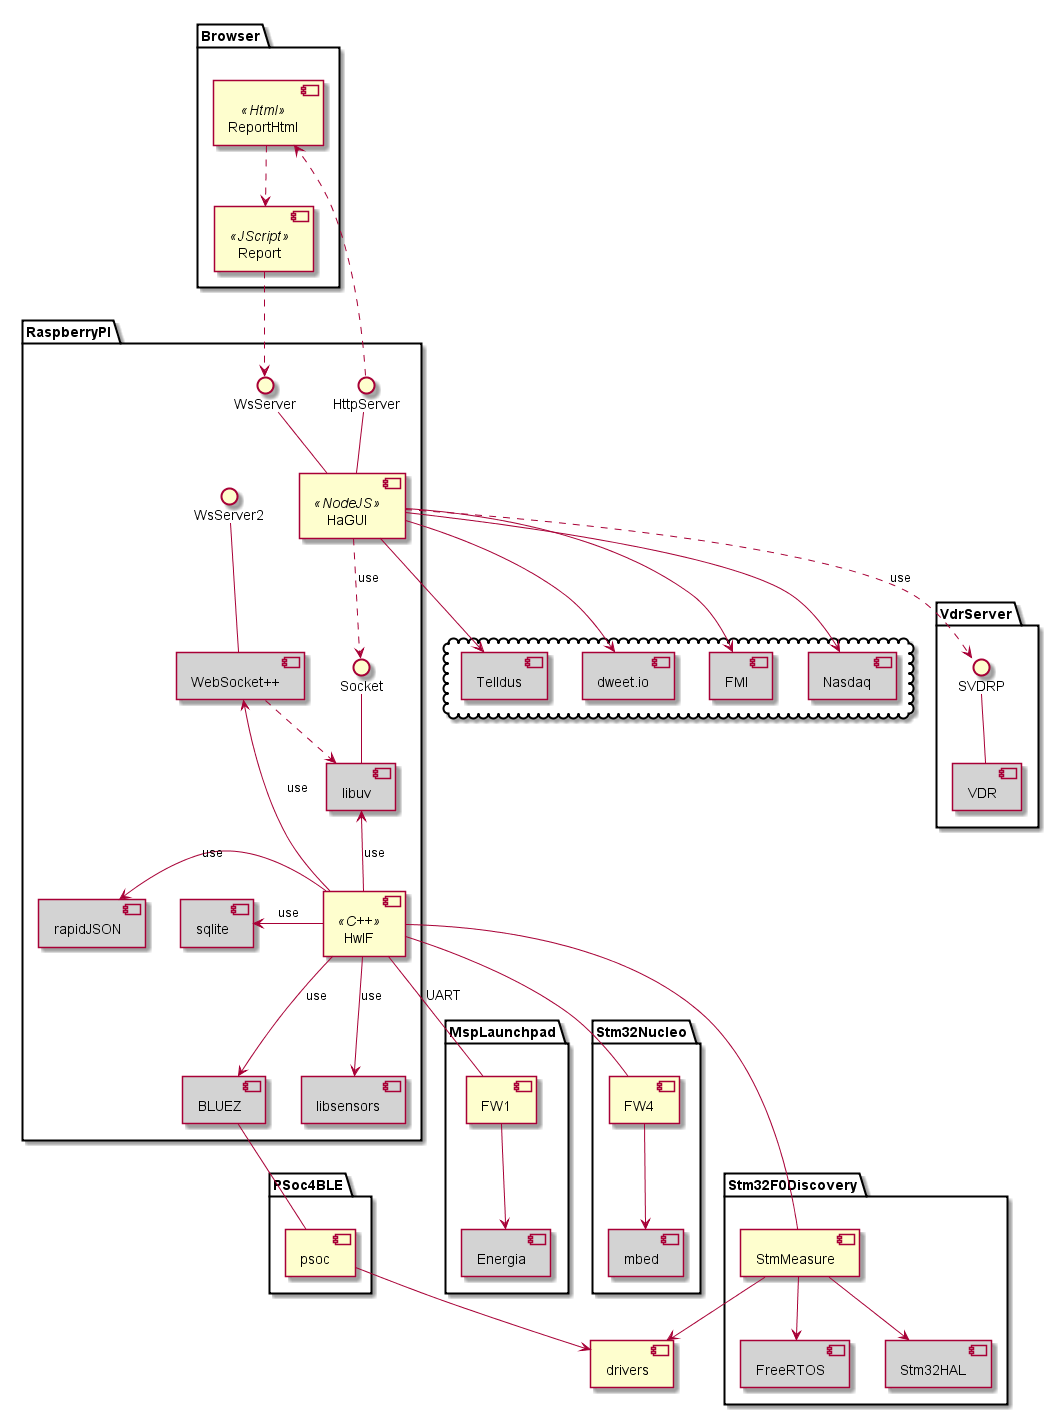
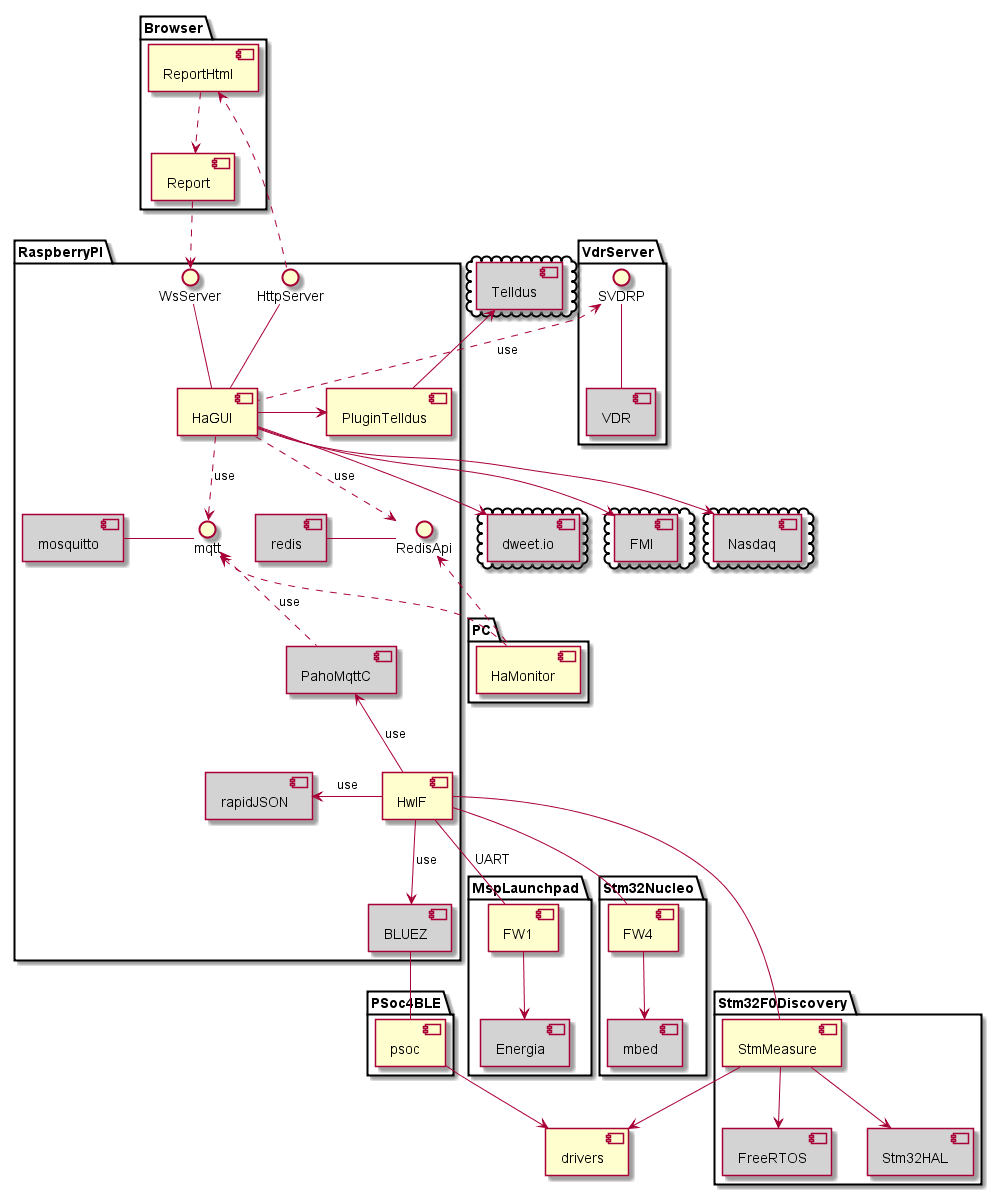
update diagrams for version 0.4 (mqtt and redis added)

Changed region(s): [[0.0, 0.0, 1.0, 1.0]]

diff --git a/applications.html b/applications.html
@@ -4,7 +4,7 @@
 <html xmlns="http://www.w3.org/1999/xhtml" lang="en" xml:lang="en">
 <head>
 <title>Applications</title>
-<!-- 2016-04-25 ma 21:23 -->
+<!-- 2016-10-26 ke 19:07 -->
 <meta  http-equiv="Content-Type" content="text/html;charset=utf-8" />
 <meta  name="generator" content="Org-mode" />
 <meta  name="author" content="Jari Ojanen" />
@@ -148,22 +148,41 @@ for the JavaScript code in this tag.
 <h2>Table of Contents</h2>
 <div id="text-table-of-contents">
 <ul>
-<li><a href="#sec-1">Windows</a></li>
+<li><a href="#sec-1">Micro controllers</a></li>
+<li><a href="#sec-2">Developer tools</a></li>
+<li><a href="#sec-3">Languages</a></li>
+<li><a href="#sec-4">Other</a></li>
 </ul>
 </div>
 </div>
 
 <div id="outline-container-sec-1" class="outline-2">
-<h2 id="sec-1">Windows</h2>
+<h2 id="sec-1">Micro controllers</h2>
 <div class="outline-text-2" id="text-1">
 <ul class="org-ul">
+<li><a href="http://energia.nu/download/">energia</a>
+</li>
+<li><a href="https://launchpad.net/gcc-arm-embedded/+download">gcc-arm</a>
+</li>
+<li><a href="http://www.cypress.com/products/psoc-creator-integrated-design-environment-ide">psoc creator</a>
+</li>
+<li>[[][stm32 st-link]]
+</li>
+<li>[[][msp430 flash emulation driver drivers]]
+</li>
+<li>[[][ols]]
+</li>
+<li>[[][openocd (installer)]]
+</li>
+</ul>
+</div>
+</div>
+
+<div id="outline-container-sec-2" class="outline-2">
+<h2 id="sec-2">Developer tools</h2>
+<div class="outline-text-2" id="text-2">
+<ul class="org-ul">
 <li><a href="http://developer.android.com/sdk/index.html">android studio</a> and SDK
-</li>
-<li><a href="http://cdex.mu/">cdex</a>
-</li>
-<li><a href="https://cygwin.com/install.html">cygwin</a>
-</li>
-<li><a href="https://sourceforge.net/projects/win32diskimager/">diskimage</a>
 </li>
 <li>[[][eclipse]]
 <ul class="org-ul">
@@ -181,42 +200,53 @@ for the JavaScript code in this tag.
 </li>
 </ul>
 </li>
-<li><a href="http://energia.nu/download/">energia</a>
-</li>
-<li><a href="https://launchpad.net/gcc-arm-embedded/+download">gcc-arm</a>
-</li>
 <li>[[][git]]
-</li>
-<li><a href="https://nodejs.org/en/download/stable/">nodejs (installer)</a>
-</li>
-<li><a href="https://www.python.org/downloads/">python 3.5 (installer)</a>
-</li>
-<li>[[][ols]]
-</li>
-<li>[[][openocd (installer)]]
-</li>
-<li><a href="https://en.osdn.jp/projects/ttssh2/releases/">teraterm</a>
-</li>
-<li><a href="http://winmerge.org/?lang=en">winmerge</a>
-</li>
-
-<li>[[][msp430 flash emulation driver drivers]]
-</li>
-<li><a href="http://www.7-zip.org/">7zip</a>
-</li>
-<li><a href="http://www.gpstrackeditor.com/">GPS Track editor</a>
-</li>
-<li><a href="http://www.java.com/en/download/">java</a>
-</li>
-<li><a href="https://kodi.tv/download/">kodi</a>
 </li>
 <li><a href="https://code.visualstudio.com/">visual studio code</a>
 </li>
 <li>[[][visual studio community]]
 </li>
-<li><a href="http://www.cypress.com/products/psoc-creator-integrated-design-environment-ide">psoc creator</a>
+<li><a href="https://cygwin.com/install.html">cygwin</a>
 </li>
-<li>[[][stm32 st-link]]
+<li><a href="https://winscp.net/eng/download.php">WinSCP</a>
+</li>
+<li><a href="http://www.chiark.greenend.org.uk/~sgtatham/putty/download.html">putty</a>
+</li>
+<li><a href="http://winmerge.org/?lang=en">winmerge</a>
+</li>
+</ul>
+</div>
+</div>
+
+<div id="outline-container-sec-3" class="outline-2">
+<h2 id="sec-3">Languages</h2>
+<div class="outline-text-2" id="text-3">
+<ul class="org-ul">
+<li><a href="http://www.java.com/en/download/">java</a>
+</li>
+<li><a href="https://nodejs.org/en/download/stable/">nodejs (installer)</a>
+</li>
+<li><a href="https://www.python.org/downloads/">python 3.5 (installer)</a>
+</li>
+</ul>
+</div>
+</div>
+
+<div id="outline-container-sec-4" class="outline-2">
+<h2 id="sec-4">Other</h2>
+<div class="outline-text-2" id="text-4">
+<ul class="org-ul">
+<li><a href="http://cdex.mu/">cdex</a>
+</li>
+<li><a href="https://sourceforge.net/projects/win32diskimager/">diskimage</a>
+</li>
+<li><a href="https://en.osdn.jp/projects/ttssh2/releases/">teraterm</a>
+</li>
+<li><a href="http://www.7-zip.org/">7zip</a>
+</li>
+<li><a href="http://www.gpstrackeditor.com/">GPS Track editor</a>
+</li>
+<li><a href="https://kodi.tv/download/">kodi</a>
 </li>
 <li><a href="https://www.virtualbox.org/">virtual box</a>
 </li>
@@ -230,13 +260,7 @@ for the JavaScript code in this tag.
 </li>
 <li>[[][spotify]]
 </li>
-
 <li>[[][nti media maker9]]
-</li>
-
-<li><a href="https://winscp.net/eng/download.php">WinSCP</a>
-</li>
-<li><a href="http://www.chiark.greenend.org.uk/~sgtatham/putty/download.html">putty</a>
 </li>
 </ul>
 </div>
@@ -244,7 +268,7 @@ for the JavaScript code in this tag.
 </div>
 <div id="postamble" class="status">
 <p class="author">Author: Jari Ojanen</p>
-<p class="date">Created: 2016-04-25 ma 21:23</p>
+<p class="date">Created: 2016-10-26 ke 19:07</p>
 <p class="creator"><a href="http://www.gnu.org/software/emacs/">Emacs</a> 24.5.1 (<a href="http://orgmode.org">Org</a> mode 8.2.10)</p>
 <p class="validation"><a href="http://validator.w3.org/check?uri=referer">Validate</a></p>
 </div>
